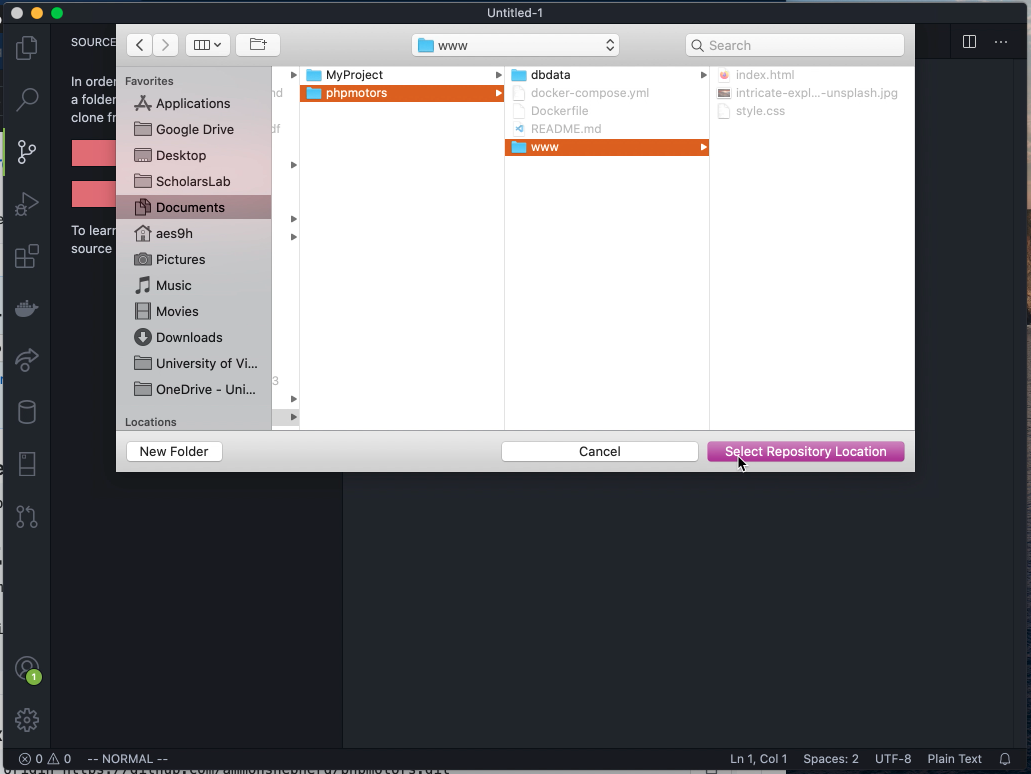
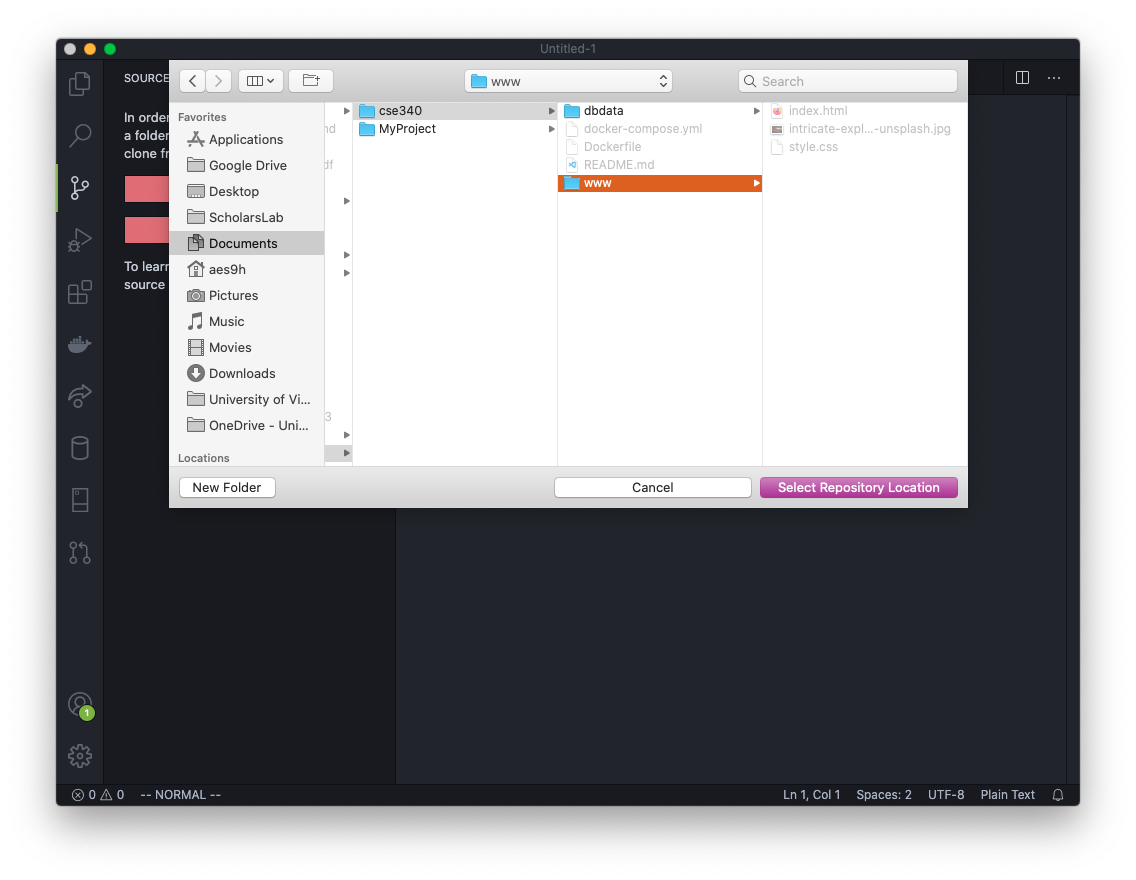
Update images and video and titles

diff --git a/phpmotors/views/github-vscode-setup.html b/phpmotors/views/github-vscode-setup.html
@@ -4,7 +4,7 @@
 <head>
   <meta charset="utf-8">
   <meta http-equiv="x-ua-compatible" content="ie=edge">
-  <title>CSE 340 Syllabus | Web Backend Development I</title>
+  <title>CSE 340 GitHub and VS Code | Web Backend Development I</title>
   <meta name="description" content="CSE 340 Syllabus, last updated 4-6-18">
   <meta name="viewport" content="width=device-width">
   <link rel="stylesheet" href="/340br/css/340course-min.css" media="screen">
@@ -38,30 +38,30 @@
         <li>Visit <a target="_blank" href="https://github.com">https://github.com</a> in a browser.</li>
         <li>Click the Sign up button.</li>
         <li>Fill in the required fields for a unique username, email and password. You can uncheck the spam box – er, I mean Email preferences checkbox.</li>
-        <li>Complete the "puzzle" by clicking the "Verify" button, then selecting the right images.</li>
-        <li>Finally, click the big blue "Create account" button.</li>
+        <li>Complete the "puzzle" by clicking the <u>Verify</u> button, then selecting the right images.</li>
+        <li>Finally, click the big blue <u>Create account</u> button.</li>
       </ul>
 
 
       <h2 id="create-a-repo">Create a repo</h2>
       <p>The next step is to create a new repository. A repository is the folder that holds the code. In our case, this is where we will put the code for building the website during this course.</p>
       <iframe width="560" height="315" src="https://www.youtube.com/embed/hu9nU6cRBjY" frameborder="0" allow="accelerometer; autoplay; clipboard-write; encrypted-media; gyroscope; picture-in-picture" allowfullscreen></iframe>
-      <p>Watch the video and follow the steps below.</p>
+      <p>[The video shows the steps detailed below.]</p>
 
       <img src="/340br/images/github-vscode/repository.png" alt="Repository link" />
       <p>On the GitHub website, after you have logged in,</p>
       <ul>
         <li>Click on your profile icon on the top right of the page.</li>
-        <li>Click the "Your repositories" link, then click the green "New" button.
+        <li>Click the <u>Your repositories</u> link, then click the green <u>New</u> button.
           <ul>
-            <li>Alternatively, if you are on the profile page already, click the "Repositories" tab, then click the green "New" button.</li>
+            <li>Alternatively, if you are on the profile page already, click the <u>Repositories</u> tab, then click the green <u>New</u> button.</li>
           </ul>
         </li>
         <img src="/340br/images/github-vscode/new-repo-button.png" alt="New repo button" />
         <li>On the New repository page, name the repository <code>phpmotors</code>.</li>
         <li>Fill in a description if you like.</li>
         <li>Check the "Private" option. Leave the remaining checkboxes empty.</li>
-        <li>Click the green "Create repository" button.</li>
+        <li>Click the green <u>Create repository</u> button.</li>
       </ul>
       <img src="/340br/images/github-vscode/create-new-repo.png" alt="Create new repo page" />
 
@@ -74,6 +74,8 @@
 
       <h3>Delete the Docker Git repo folder</h3>
       <iframe width="560" height="315" src="https://www.youtube.com/embed/6ffy30KJbSI" frameborder="0" allow="accelerometer; autoplay; clipboard-write; encrypted-media; gyroscope; picture-in-picture" allowfullscreen></iframe>
+      <p>[The video shows the steps detailed below.]</p>
+
       <p>Fist, delete the Git repository associated with Docker that we set up in the previous tutorial. To do this, we need to change a setting to allow hidden files to be visible in the Explorer sidebar.</p>
       <p>Open the settings file for VS Code by using the following VS Code menu command:
       <ul>
@@ -97,39 +99,40 @@
       <p>Proceed to delete the folder.</p>
       <p><img src="/340br/images/github-vscode/delete-git-folder.png" alt="delete Git folder" /></p>
 
-      <p>Go back and edit the entry for .git to remove the octothorpe.</p>
+      <p>Go back and edit the entry for <code>**/.git</code> to remove the octothorpe and save the change.</p>
 
-      <p>Your VS Code should now look like this.</p>
+      <p>Close the Settings page by clickin the X on the Settings tab. Your VS Code should now look like this.</p>
       <p><img src="/340br/images/github-vscode/project-working-directory.png" alt="Project working directory" /></p>
 
 
 
       <h3>Set up remote Git repo</h3>
-      <p>VS Code is set to edit from the <code>phpmotors</code> folder, but it needs to edit from a new folder within the <code>www</code> folder.</p>
+      <p>VS Code is set to edit from the <code>cse340</code> folder, but it needs to edit from a new folder within the <code>www</code> folder.</p>
       <p>We will create this folder, have VS Code set to edit from this folder, and connect GitHub to this folder all at the same time.</p>
 
-      <iframe width="560" height="315" src="https://www.youtube.com/embed/2qWF0TvE8nw" frameborder="0" allow="accelerometer; autoplay; clipboard-write; encrypted-media; gyroscope; picture-in-picture" allowfullscreen></iframe>
+      <iframe width="560" height="315" src="https://www.youtube.com/embed/yzUen29sb9Q" frameborder="0" allow="accelerometer; autoplay; clipboard-write; encrypted-media; gyroscope; picture-in-picture" allowfullscreen></iframe>
+      <p>[The video shows the steps detailed below.]</p>
 
       <p>The first step is to open a new VS Code window with <u>File->New Window</u>. You can close the other VS Code window. It will not be needed anymore.</p>
       <p>Notice the Git icon on the left sidebar. Click on that.</p>
       <p><img src="/340br/images/github-vscode/new-vscode-window.png" alt="New VS Code window" /></p>
 
-      <p>You should see two pink colored buttons; one for "Open Folder" and one for "Clone Repository." Click on the "Clone Repository" button. This opens the VS Code Command Prompt. </p>
+      <p>You should see two pink colored buttons; one for <u>Open Folder</u> and one for <u>Clone Repository.</u> Click on the <u>Clone Repository</u> button. This opens the VS Code Command Prompt. </p>
       <p><img src="/340br/images/github-vscode/git-open-repo.png" alt="Clone Repository button" /></p>
 
-      <p>Click on the dropdown option "Clone from GitHub".</p>
+      <p>Click on the dropdown option <u>Clone from GitHub</u>.</p>
       <p><img src="/340br/images/github-vscode/clone-from-github.png" alt="Clone from GitHub button" /></p>
 
-      <p>A pop-up will ask if you want to allow the extension to sign in to GitHub. Click the "Allow" button. </p>
+      <p>A pop-up will ask if you want to allow the extension to sign in to GitHub. Click the <u>Allow</u> button. </p>
       <p><img src="/340br/images/github-vscode/allow-github.png" alt="Clone Repository button" /></p>
 
-      <p>Your browser will then open with a page asking you to continue authorization of VS Code to access GitHub. Click the big green "Continue" button.</p>
+      <p>Your browser will then open with a page asking you to continue authorization of VS Code to access GitHub. Click the big green <u>Continue</u> button.</p>
       <p><img src="/340br/images/github-vscode/authorize-vscode.png" alt="Click the big green button" /></p>
 
-      <p>You'll see a success message with an alert box. Click the "Open Link" button.</p>
+      <p>You'll see a success message with an alert box. Click the <u>Open Link</u> button.</p>
       <p><img src="/340br/images/github-vscode/open-link.png" alt="Open the link" /></p>
 
-      <p>This sends you back to VS Code with a prompt to allow the extension to open the URI (the address). Click "Open".</p>
+      <p>This sends you back to VS Code with a prompt to allow the extension to open the URI (the address). Click <u>Open</u>.</p>
       <p><img src="/340br/images/github-vscode/vscode-open.png" alt="VS Code Open" /></p>
 
       <p>After a second, you will see a drop down with all the repos in your GitHub account available.</p>
@@ -141,16 +144,16 @@
       <p>If the repo does not show up, you can type in your GitHub account name followed by the repo name: <code>username/phpmotors</code> Click on that option.</p>
       <p><img src="/340br/images/github-vscode/type-repo.png" alt="Type your GitHub username followed by repo name" /></p>
 
-      <p>Next, VS Code will ask you to select a location on your computer to put the files. Browse to your project folder, for example <code>Documents/phpmotors/www/</code>.</p>
+      <p>Next, VS Code will ask you to select a location on your computer to put the files. Browse to your project folder, for example <code>Documents/cse340/www/</code>.</p>
 
       <p>Now select the <code>www</code> folder and click the Select Repository Location button.</p>
       <p><img src="/340br/images/github-vscode/select-location.png" alt="Select a location to put your files" /></p>
 
-      <p>Next click the "Open" or "Open in New Window" button on the VS Code notification pop-up. If the notification disappeared before you could click on it, you can click the little bell icon to get the notification to reappear.</p>
+      <p>Next click the <u>Open</u> or <u>Open in New Window</u> button on the VS Code notification pop-up. If the notification disappeared before you could click on it, you can click the little bell icon to get the notification to reappear.</p>
       <p><img src="/340br/images/github-vscode/open-in-vscode.png" alt="Open or Open in New Window" /></p>
 
-      <p> Or you can click on the <u>Open Folder</u> button and browse to the <code>Documents/phpmotors/www/phpmotors/</code> folder and select the second <code>phpmotors</code> folder.</p>
-      <p><img src="/340br/images/github-vscode/open-phpmotors-folder.png" alt="Open Folder, browse to second phpmotors folder" /></p>
+      <p> Or you can click on the <u>Open Folder</u> button and browse to the <code>Documents/cse340/www/phpmotors/</code> folder and select the <code>phpmotors</code> folder. This is the process for opening this folder from this point on if the VS Code application is closed.</p>
+      <p><img src="/340br/images/github-vscode/open-phpmotors-folder.png" alt="Open Folder, browse to phpmotors folder" /></p>
 
       <p>Now VS Code is connected to the GitHub repo and we can start adding files in VS Code.</p>
 
@@ -184,7 +187,9 @@
 
       <h2 id="the-readme-file">The README file</h2>
       <iframe width="560" height="315" src="https://www.youtube.com/embed/s5Ovc8JYlDM" frameborder="0" allow="accelerometer; autoplay; clipboard-write; encrypted-media; gyroscope; picture-in-picture" allowfullscreen></iframe>
-      <p>Back in VS Code, make a new file by clicking on the new file icon, or go to the File menu and click "New File". Name the file <code>README.md</code> The <code>.md</code> is the file extension for Markdown files. GitHub will know what to do with it.</p>
+      <p>[The video shows the steps detailed below.]</p>
+
+      <p>Back in VS Code, make a new file by clicking on the new file icon, or go to the File menu and click <u>New File</u>. Name the file <code>README.md</code> The <code>.md</code> is the file extension for Markdown files. GitHub will know what to do with it.</p>
       <p><img src="/340br/images/github-vscode/readme-file.png" alt="New file button" /></p>
 
       <p>We'll use Markdown in this file, which is like a distant cousin to HTML. It makes text readable as plain text, but still has some syntax that allows computers to alter the display of the text, just like HTML.</p>
@@ -209,7 +214,7 @@
       <p>Stage the changes for a commit by pressing the plus icon.</p>
 
       <p>To commit the changes, first type in a short message, then click the check mark or use the short-cut keys (command-Enter on Mac).</p>
-      <p>Once you have committed the changes, you can push the changes to the GitHub repo. Click on the three-dots icon and select "Push".</p>
+      <p>Once you have committed the changes, you can push the changes to the GitHub repo. Click on the three-dots icon and select <u>Push</u>.</p>
       <p> <img src="/340br/images/github-vscode/git-push.png" alt="" /> </p>
       <p>You may be asked if you wish to periodically fetch new changes from GitHub. You don't want this, so select the option that does not fetch.</p>
 
@@ -233,6 +238,7 @@
       <h2>Add Collaborator</h2>
       <p>In order for your instructor or the TAs to see your code on GitHub, you will need to add them as a collaborator. You at least want to add me, your instructor, as a collaborator. :)</p>
       <iframe width="560" height="315" src="https://www.youtube.com/embed/a9To390OEUo" frameborder="0" allow="accelerometer; autoplay; clipboard-write; encrypted-media; gyroscope; picture-in-picture" allowfullscreen></iframe>
+      <p>[The video shows the steps detailed below.]</p>
 
       <p>On the GitHub website, you should be on the repo page you just created.</p>
 
@@ -240,13 +246,13 @@
       <img src="/340br/images/github-vscode/settings-tab.png" alt="Settings tab" />
 
       <p>Next, click the "Manage Access" tab.</p>
-      <p>Then, click the green "Invite a collaborator" button.</p>
+      <p>Then, click the green <u>Invite a collaborator</u> button.</p>
       <img src="/340br/images/github-vscode/invite-button.png" alt="Manage access tab and Invite button" />
 
       <p>Type in your instructor's GitHub username: <code>ammonshepherd</code></p>
       <img src="/340br/images/github-vscode/add-collaborator.png" alt="Add collaborator" />
 
-      <p>And finally, click the green "Add ammonshepherd to this repository" button.</p>
+      <p>And finally, click the green <u>Add ammonshepherd to this repository</u> button.</p>
 
 
       <h2>All set</h2>

diff --git a/phpmotors/views/git.html b/phpmotors/views/git.html
@@ -4,7 +4,7 @@
 <head>
   <meta charset="utf-8">
   <meta http-equiv="x-ua-compatible" content="ie=edge">
-  <title>CSE 340 Syllabus | Web Backend Development I</title>
+  <title>CSE 340 Install Git | Web Backend Development I</title>
   <meta name="description" content="CSE 340 Syllabus, last updated 4-6-18">
   <meta name="viewport" content="width=device-width">
   <link rel="stylesheet" href="/340br/css/340course-min.css" media="screen">
